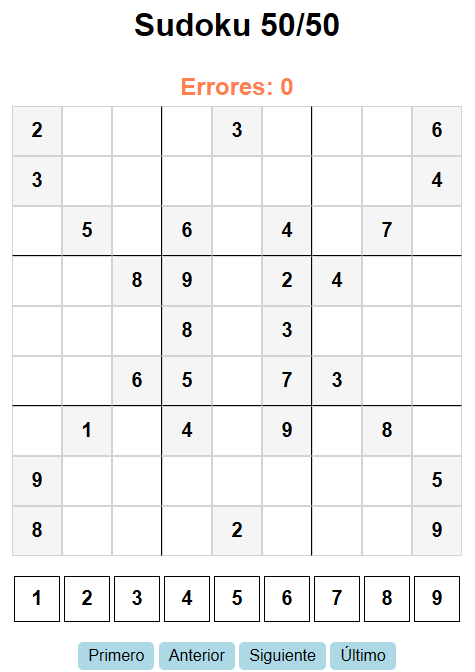
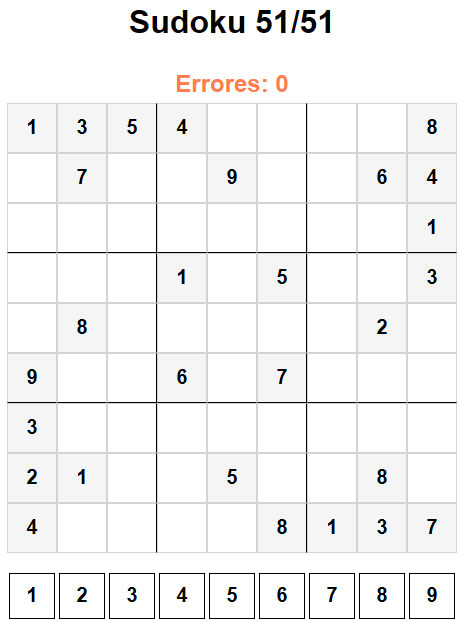
Feat: sudoku-javascript. 20251130
- 20251130

#20251130

Changed region(s): [[0.0, 0.1206, 0.9893, 1.0], [0.2698, 0.0, 0.7195, 0.0603]]

diff --git a/board.js b/board.js
@@ -98,7 +98,9 @@ const board = [
   ['-3-8-9-6-', '2-------9', '--96-28--', '58-----94', '----9----',
     '49-----83', '--67-52--', '8-------6', '-5-2-6-7-',],
   ['2---3---6', '3-------4', '-5-6-4-7-', '--89-24--', '---8-3---',
-    '--65-73--', '-1-4-9-8-', '9-------5', '8---2---9', ],
+    '--65-73--', '-1-4-9-8-', '9-------5', '8---2---9',],
+  ['1354----8', '-7--9--64', '--------1', '---1-5--3', '-8-----2-',
+    '9--6-7---', '3--------', '21--5--8-', '4----8137',]
 ];
 
 export default function getBoard (WHICH) {

diff --git a/sudoku.js b/sudoku.js
@@ -10,7 +10,7 @@ let posExample = '';
 
 let errors = 0;
 
-const WHICH = 49;
+const WHICH = 50;
 let currentBoardIndex = WHICH; // El índice del tablero que se va a resolver
 
 let board = [];
